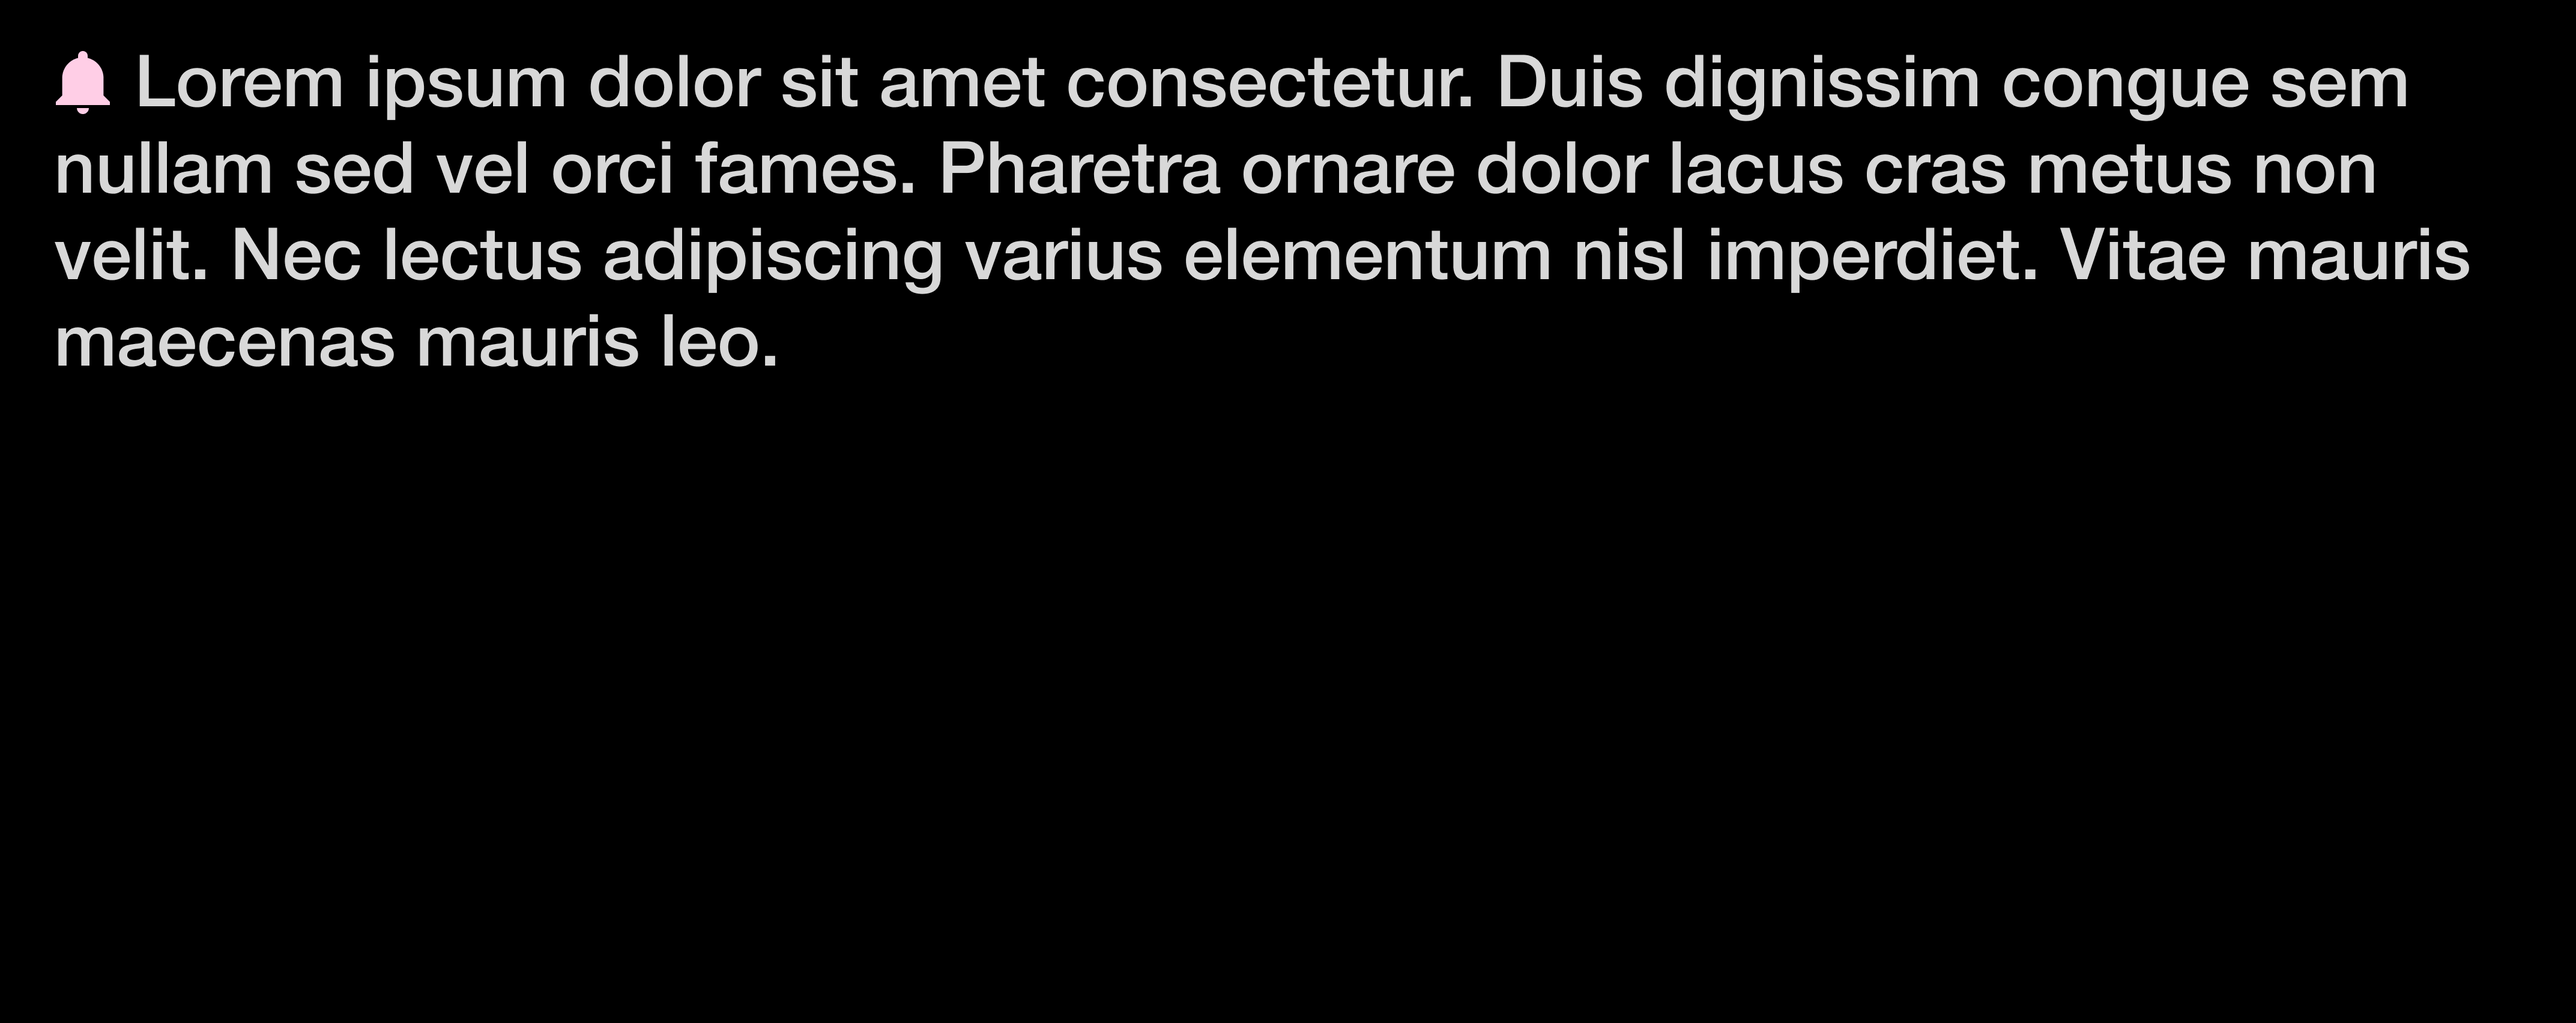
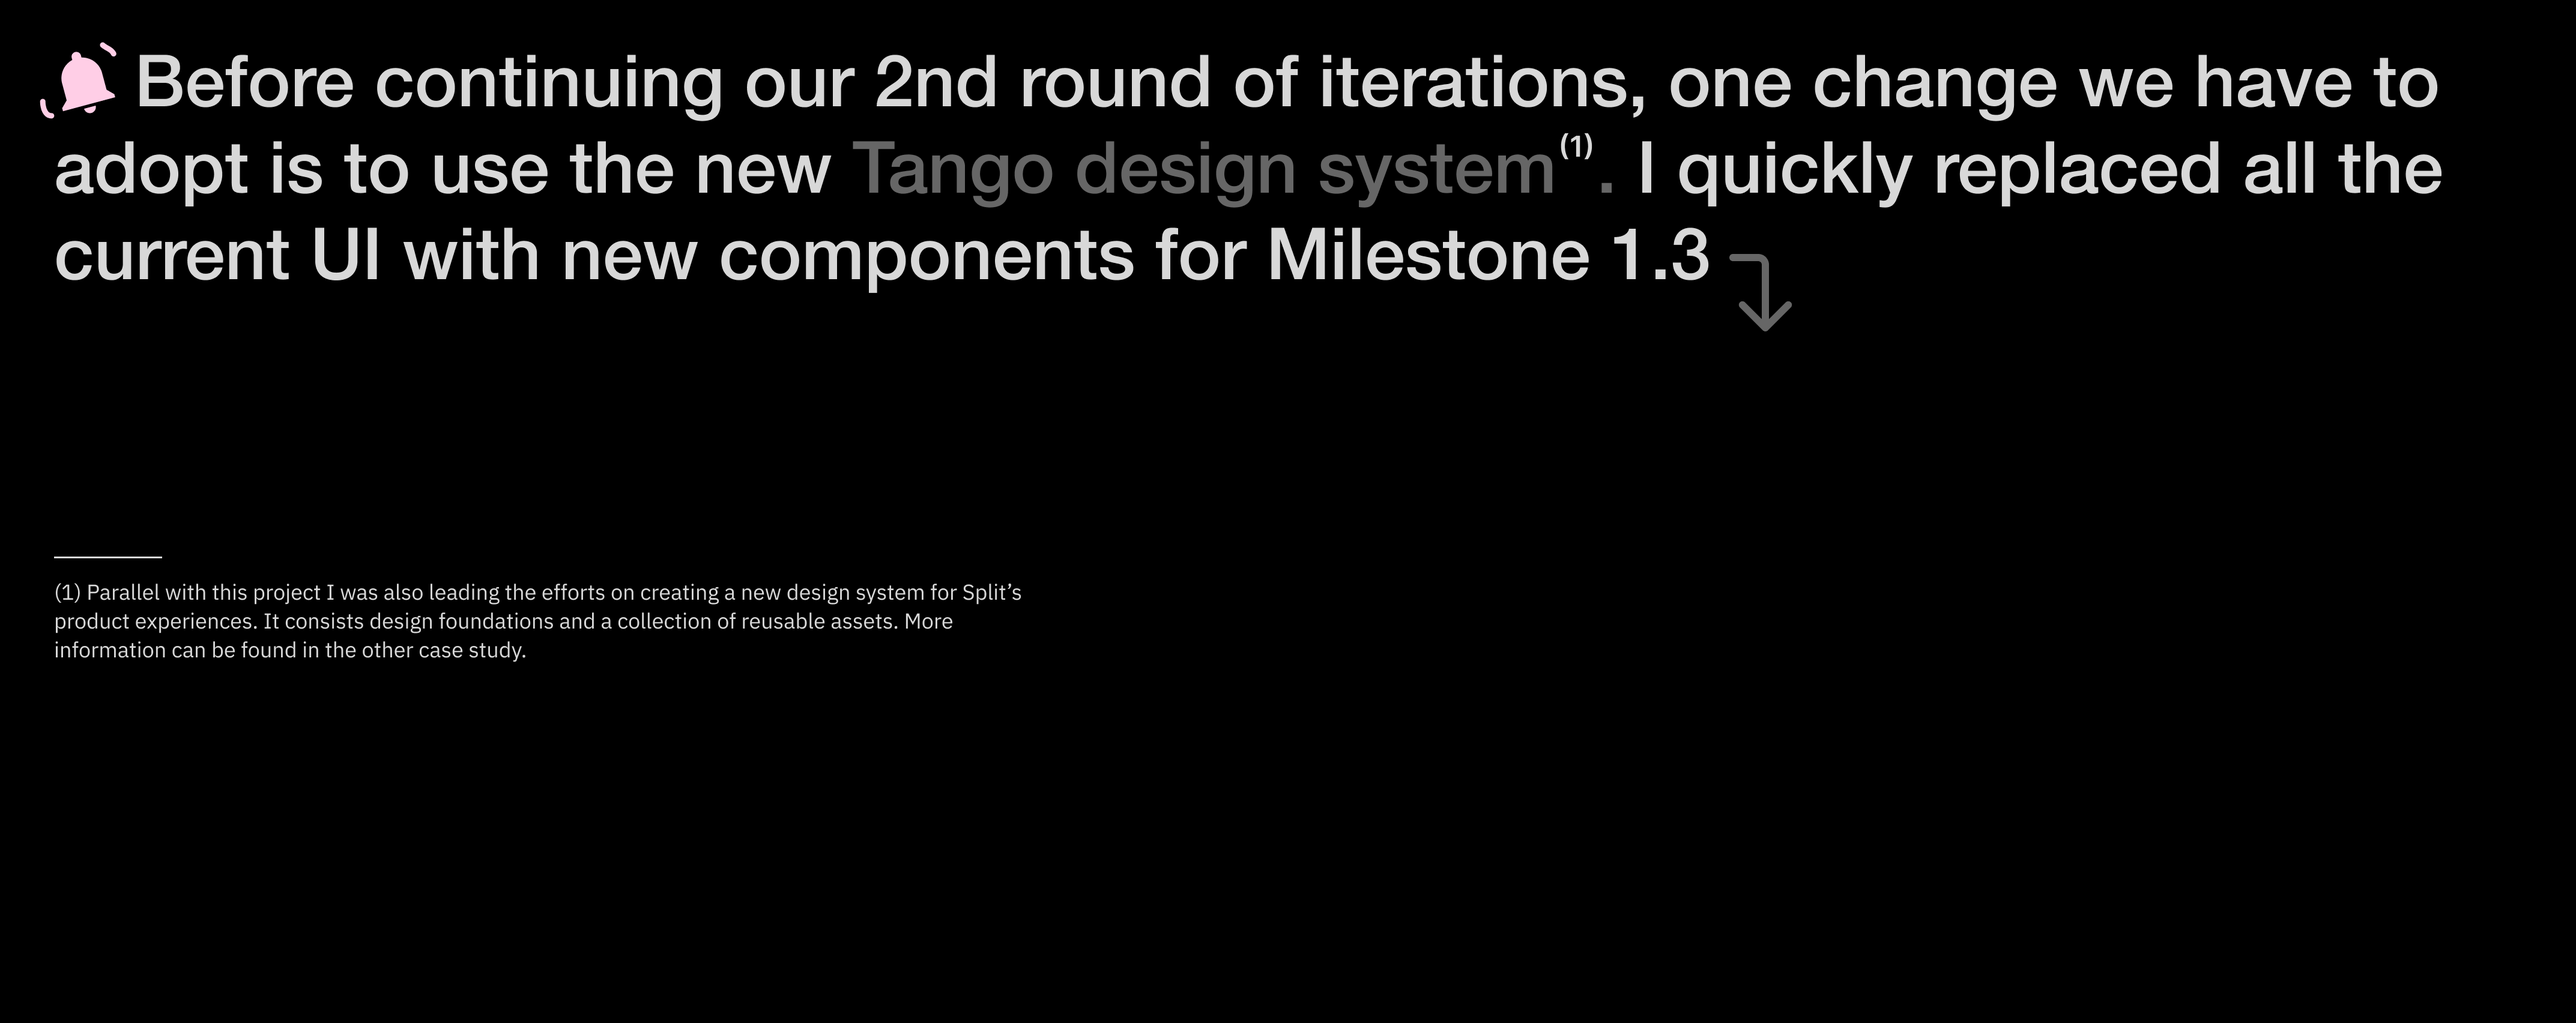
Updated some images for AlertUX project

diff --git a/alertUX.html b/alertUX.html
@@ -166,9 +166,9 @@
             <div class="productDesginDescription reveal" data-scroll-indicator-title="Foundational research">
                 <h6 class="productTOC" style="color: #830049;">Foundational research</h6>
                 <h5 class="productTitle">Zooming in</h5>
-                <h5 class="productDetails">In order to get a clear picture of usability issues in the current
-                    experience and to test our hypothesis. We conducted 12 user interviews, here are some insights we've
-                    gathered on the user pain points. They can be mainly categoried into three buckets:
+                <h5 class="productDetails">In order to get a clear picture of usability issues in the current experience
+                    and to test our hypothesis. We conducted 12 user interviews, here are some insights we've gathered
+                    on the user pain points. They can be mainly categorized into three buckets:
                 </h5>
             </div>
         </div>
@@ -277,9 +277,9 @@
             <div class="productDesginDescription reveal" data-scroll-indicator-title="Milestone One">
                 <h6 class="productTOC" style="color: #830049;" id="design">Milestone One</h6>
                 <h5 class="productTitle">Low hanging fruits</h5>
-                <h5 class="productDetails">As the first step to enhance the discoverability of the alerting feature, we
+                <h5 class="productDetails">As our first step to enhance the discoverability of the alerting feature, we
                     added entry points to the creation flow to prevent 'dead-end' scenarios. This significantly improved
-                    the click rate. Following this, we started iterations of the new creation form design.
+                    the click rate on alert policy page.
                 </h5>
             </div>
         </div>
@@ -287,9 +287,29 @@
         <div class="detailsX" style="margin-bottom: 0rem">
             <img src="./images/Alert/D2-1.png">
         </div>
+
+        <!--D2-->
+        <div class="w3-col w3-container s12 m5 l5" style="padding-top: 2.5rem; padding-right:5rem;">
+        </div>
+        <div class="w3-col w3-container s12 m7 l7" style="padding-top: 2.5rem; padding-right:5rem;" class="panel"
+            data-color="violet">
+            <div class="productDesginDescription">
+                <!-- <h6 class="productTOC" style="color: #830049;" id="design">Milestone One</h6> -->
+                <!-- <h5 class="productTitle">Low hanging fruits</h5> -->
+                <h5 class="productDetails">
+                    However, help users to discover this functionality is just the first step. The most challenging
+                    aspect of optimizing the creation process is enhancing the configurability of alert policies and
+                    simplifying the setup of alerting conditions for users. With this goal in mind, I continued exploring various form designs...
+                </h5>
+            </div>
+        </div>
+
         <div class="detailsX" style="margin-bottom: 0rem">
             <img src="./images/Alert/D2-2.png">
         </div>
+
+
+
         <div class="detailsX" style="margin-bottom: 0rem">
             <img src="./images/Alert/Twist1.png">
         </div>
